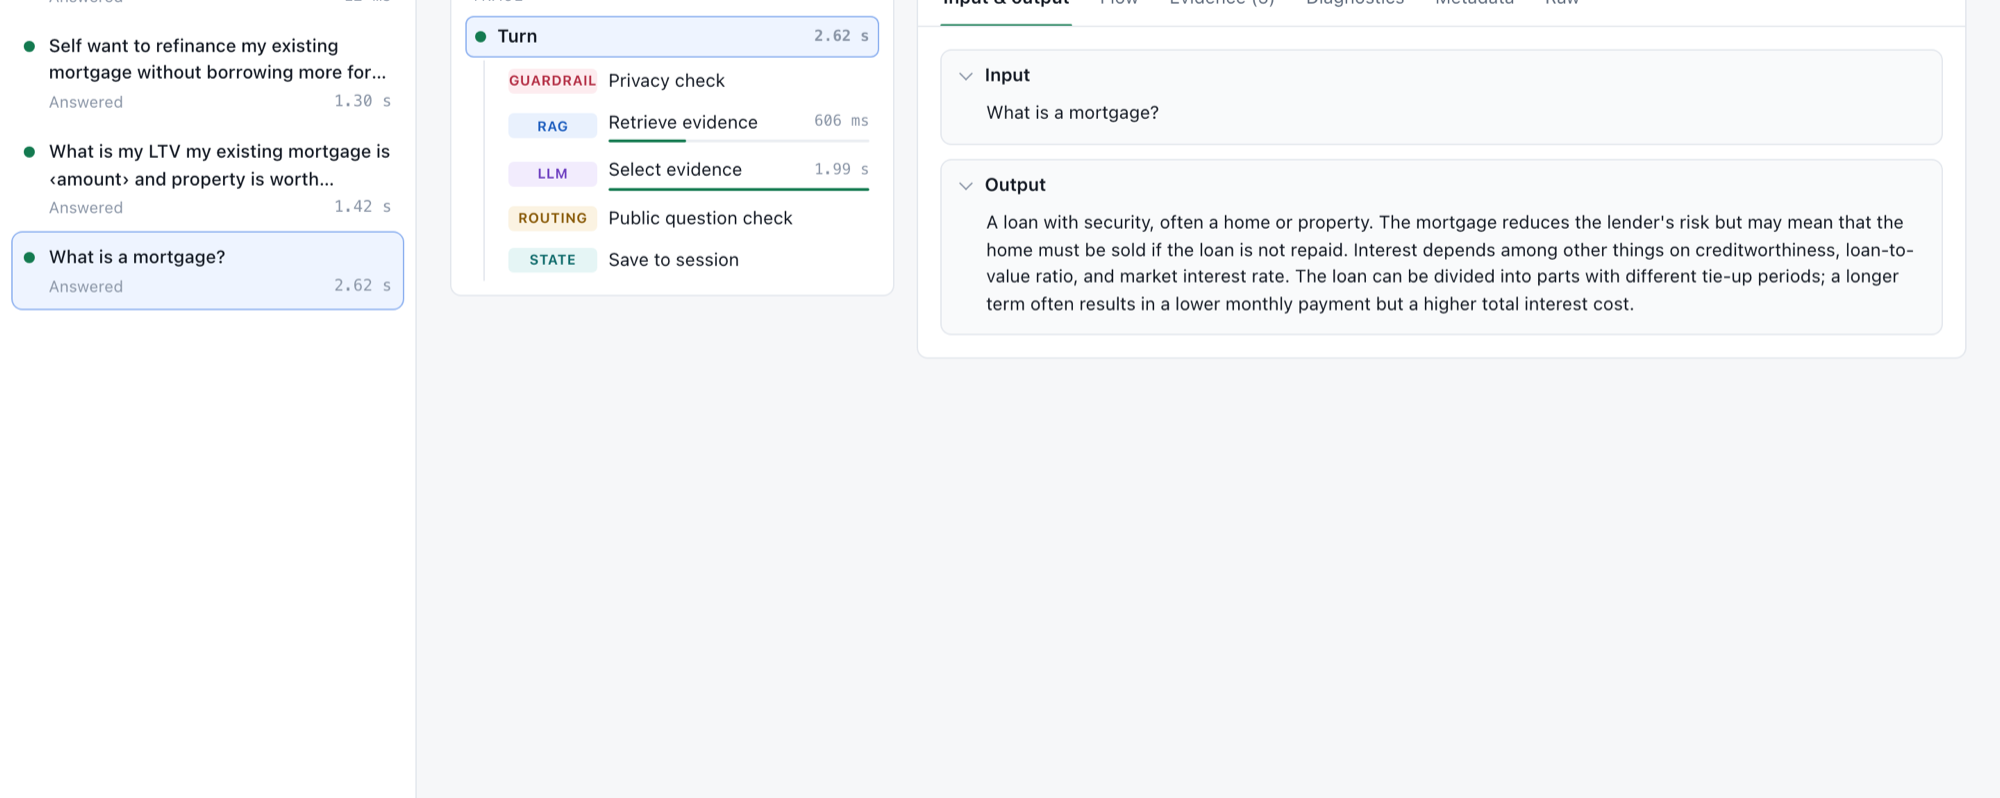
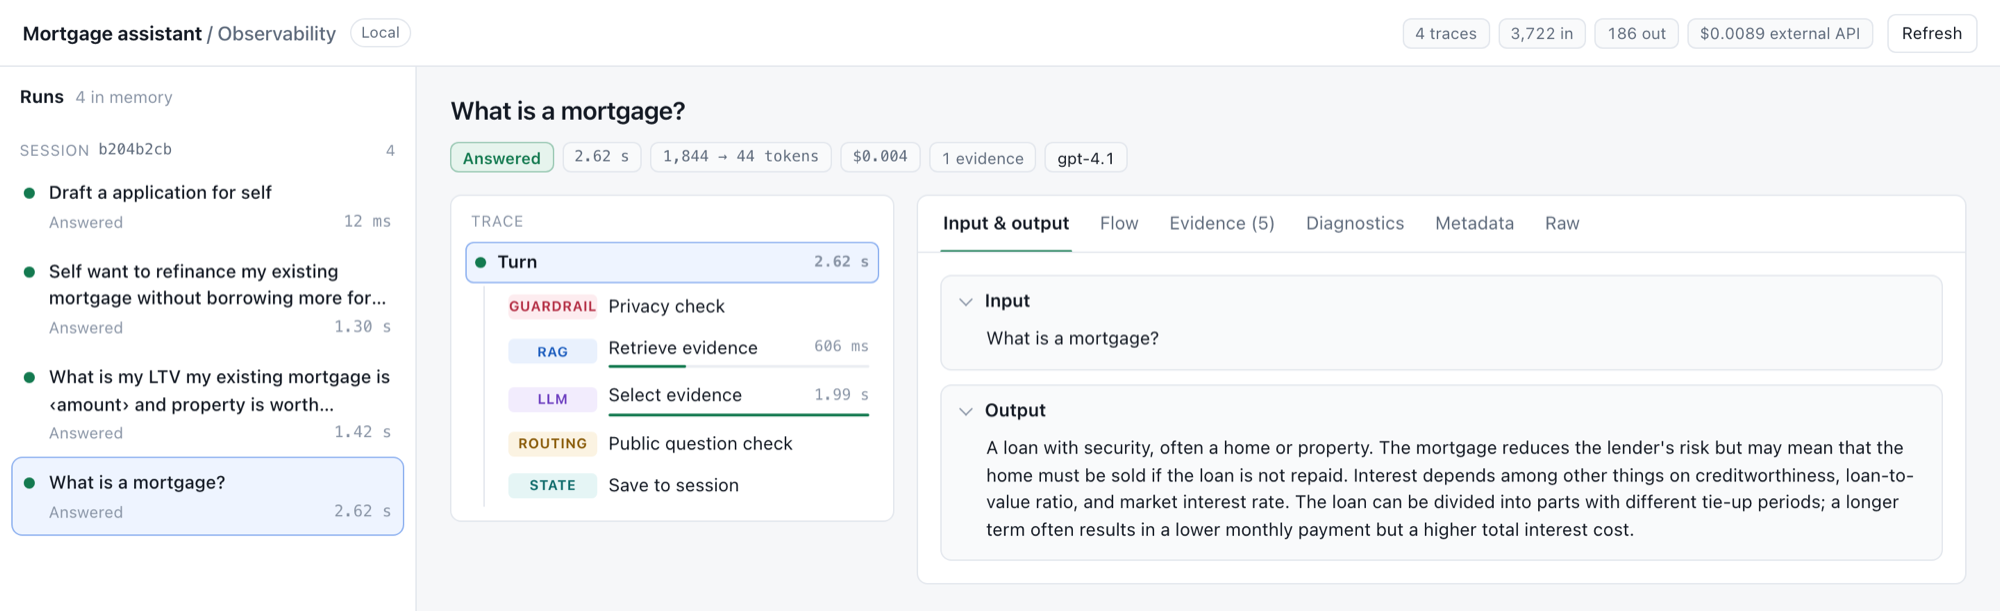
docs(readme): fix screenshot crops and layout

diff --git a/README.md b/README.md
@@ -10,6 +10,8 @@ Demo video (3:32): [youtu.be/_Z884yL753A](https://youtu.be/_Z884yL753A). Interac
 
 ## What it does
 
+<img src="docs/images/chat-draft.png" alt="The application draft card in the chat" width="230" align="right">
+
 - Answers product questions only from reviewed records. Retrieval uses two BGE-M3/FAISS views and a local reranker, and a relevance threshold decides whether the records cover the question at all. The LLM picks which records to cite, and the server shows their reviewed text with sources.
 - Handles mortgage turns with a schema-validated tool call. Python calculates loan-to-value on the amounts the customer typed, so the model never does the arithmetic.
 - Prepares an application draft only when the customer asks for one. One click fills the editable form, and nothing is submitted.
@@ -17,16 +19,11 @@ Demo video (3:32): [youtu.be/_Z884yL753A](https://youtu.be/_Z884yL753A). Interac
 - Traces every turn in an engineering console, with tokens, latency and cost per step.
 - Runs on a local Qwen model or on OpenAI (`gpt-4.1` by default), chosen at startup.
 
-<table>
-  <tr>
-    <td><img src="docs/images/chat-draft.png" alt="The application draft card in the chat"></td>
-    <td><img src="docs/images/console.png" alt="The engineering console showing one turn as a trace"></td>
-  </tr>
-  <tr>
-    <td>The draft card after the customer asks for an application.</td>
-    <td>The engineering console: each step of a turn with its tokens, latency and cost.</td>
-  </tr>
-</table>
+<br clear="right">
+
+![The engineering console showing one turn as a trace](docs/images/console.png)
+
+*The engineering console shows each step of a turn with its tokens, latency and cost.*
 
 ## Install
 
